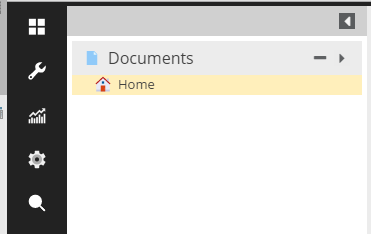
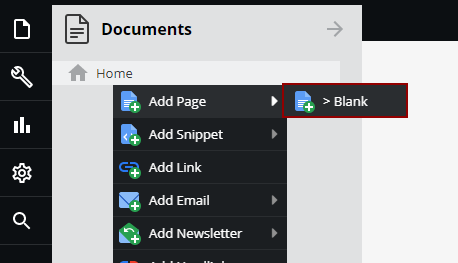
[Docs] Pimcore X - Update Create First Project - follow up to #7195

diff --git a/doc/Development_Documentation/01_Getting_Started/06_Create_a_First_Project.md b/doc/Development_Documentation/01_Getting_Started/06_Create_a_First_Project.md
@@ -1,7 +1,6 @@
 
 In this section, you will learn the basics of Pimcore, required to start developing. 
 
-[TOC]
 
 # Creating CMS Pages with Documents
 
@@ -100,12 +99,12 @@ The code `{{ block('content') }}` is the placeholder where the content of the pa
 ### Putting it all together with Pimcore Documents
 Now we need to connect the action to a page in the Pimcore backend, so that the page knows which action 
 (and therefore also which template) needs to be executed/processed.
-First, click right on *Home* in the *Documents* panel. 
+First, click right on *Home* in the *Documents* panel and Select *Add Page* > *Blank* to add a new page. 
 
 ![Create page](../img/Pimcore_Elements_check_homepage.png)
 
 Now select the tab *Settings* in the newly opened tab.
-Select the name of the controller and the name of the action in the according fields.
+Select the Controller::Action and template(if different from controller action naming).
 
 ![Page settings](../img/Pimcore_Elements_homepage_settings.png)
 
